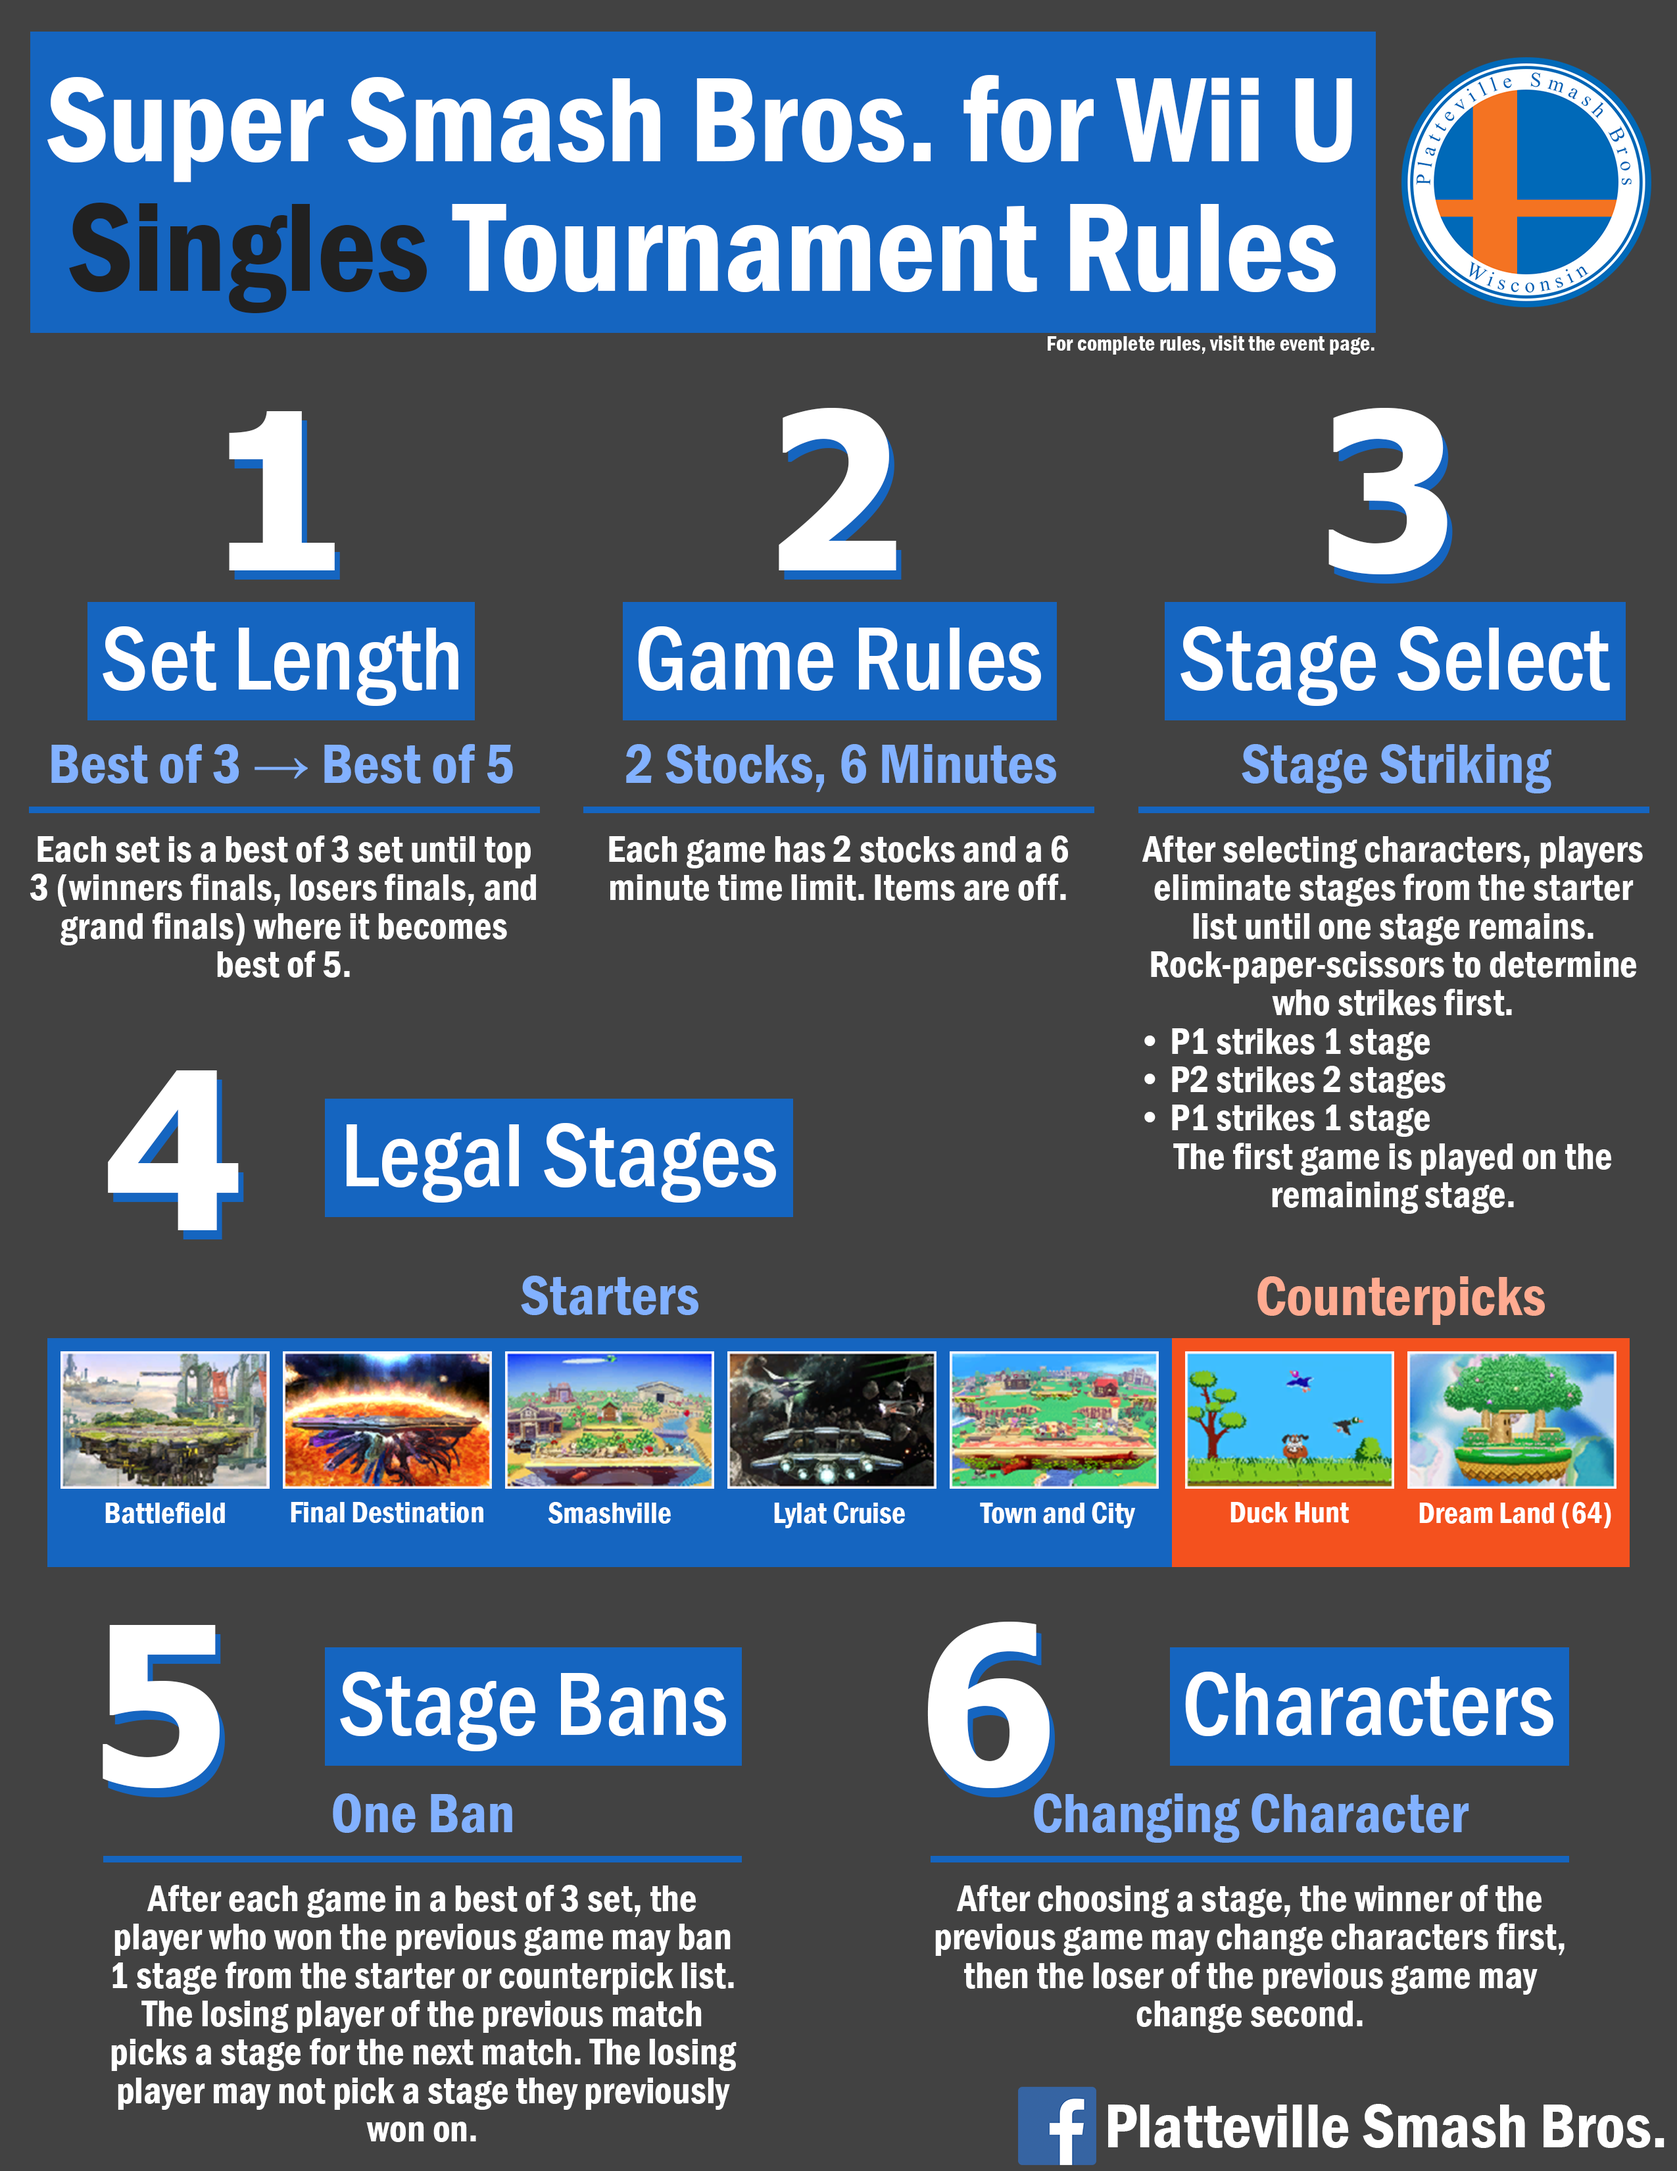
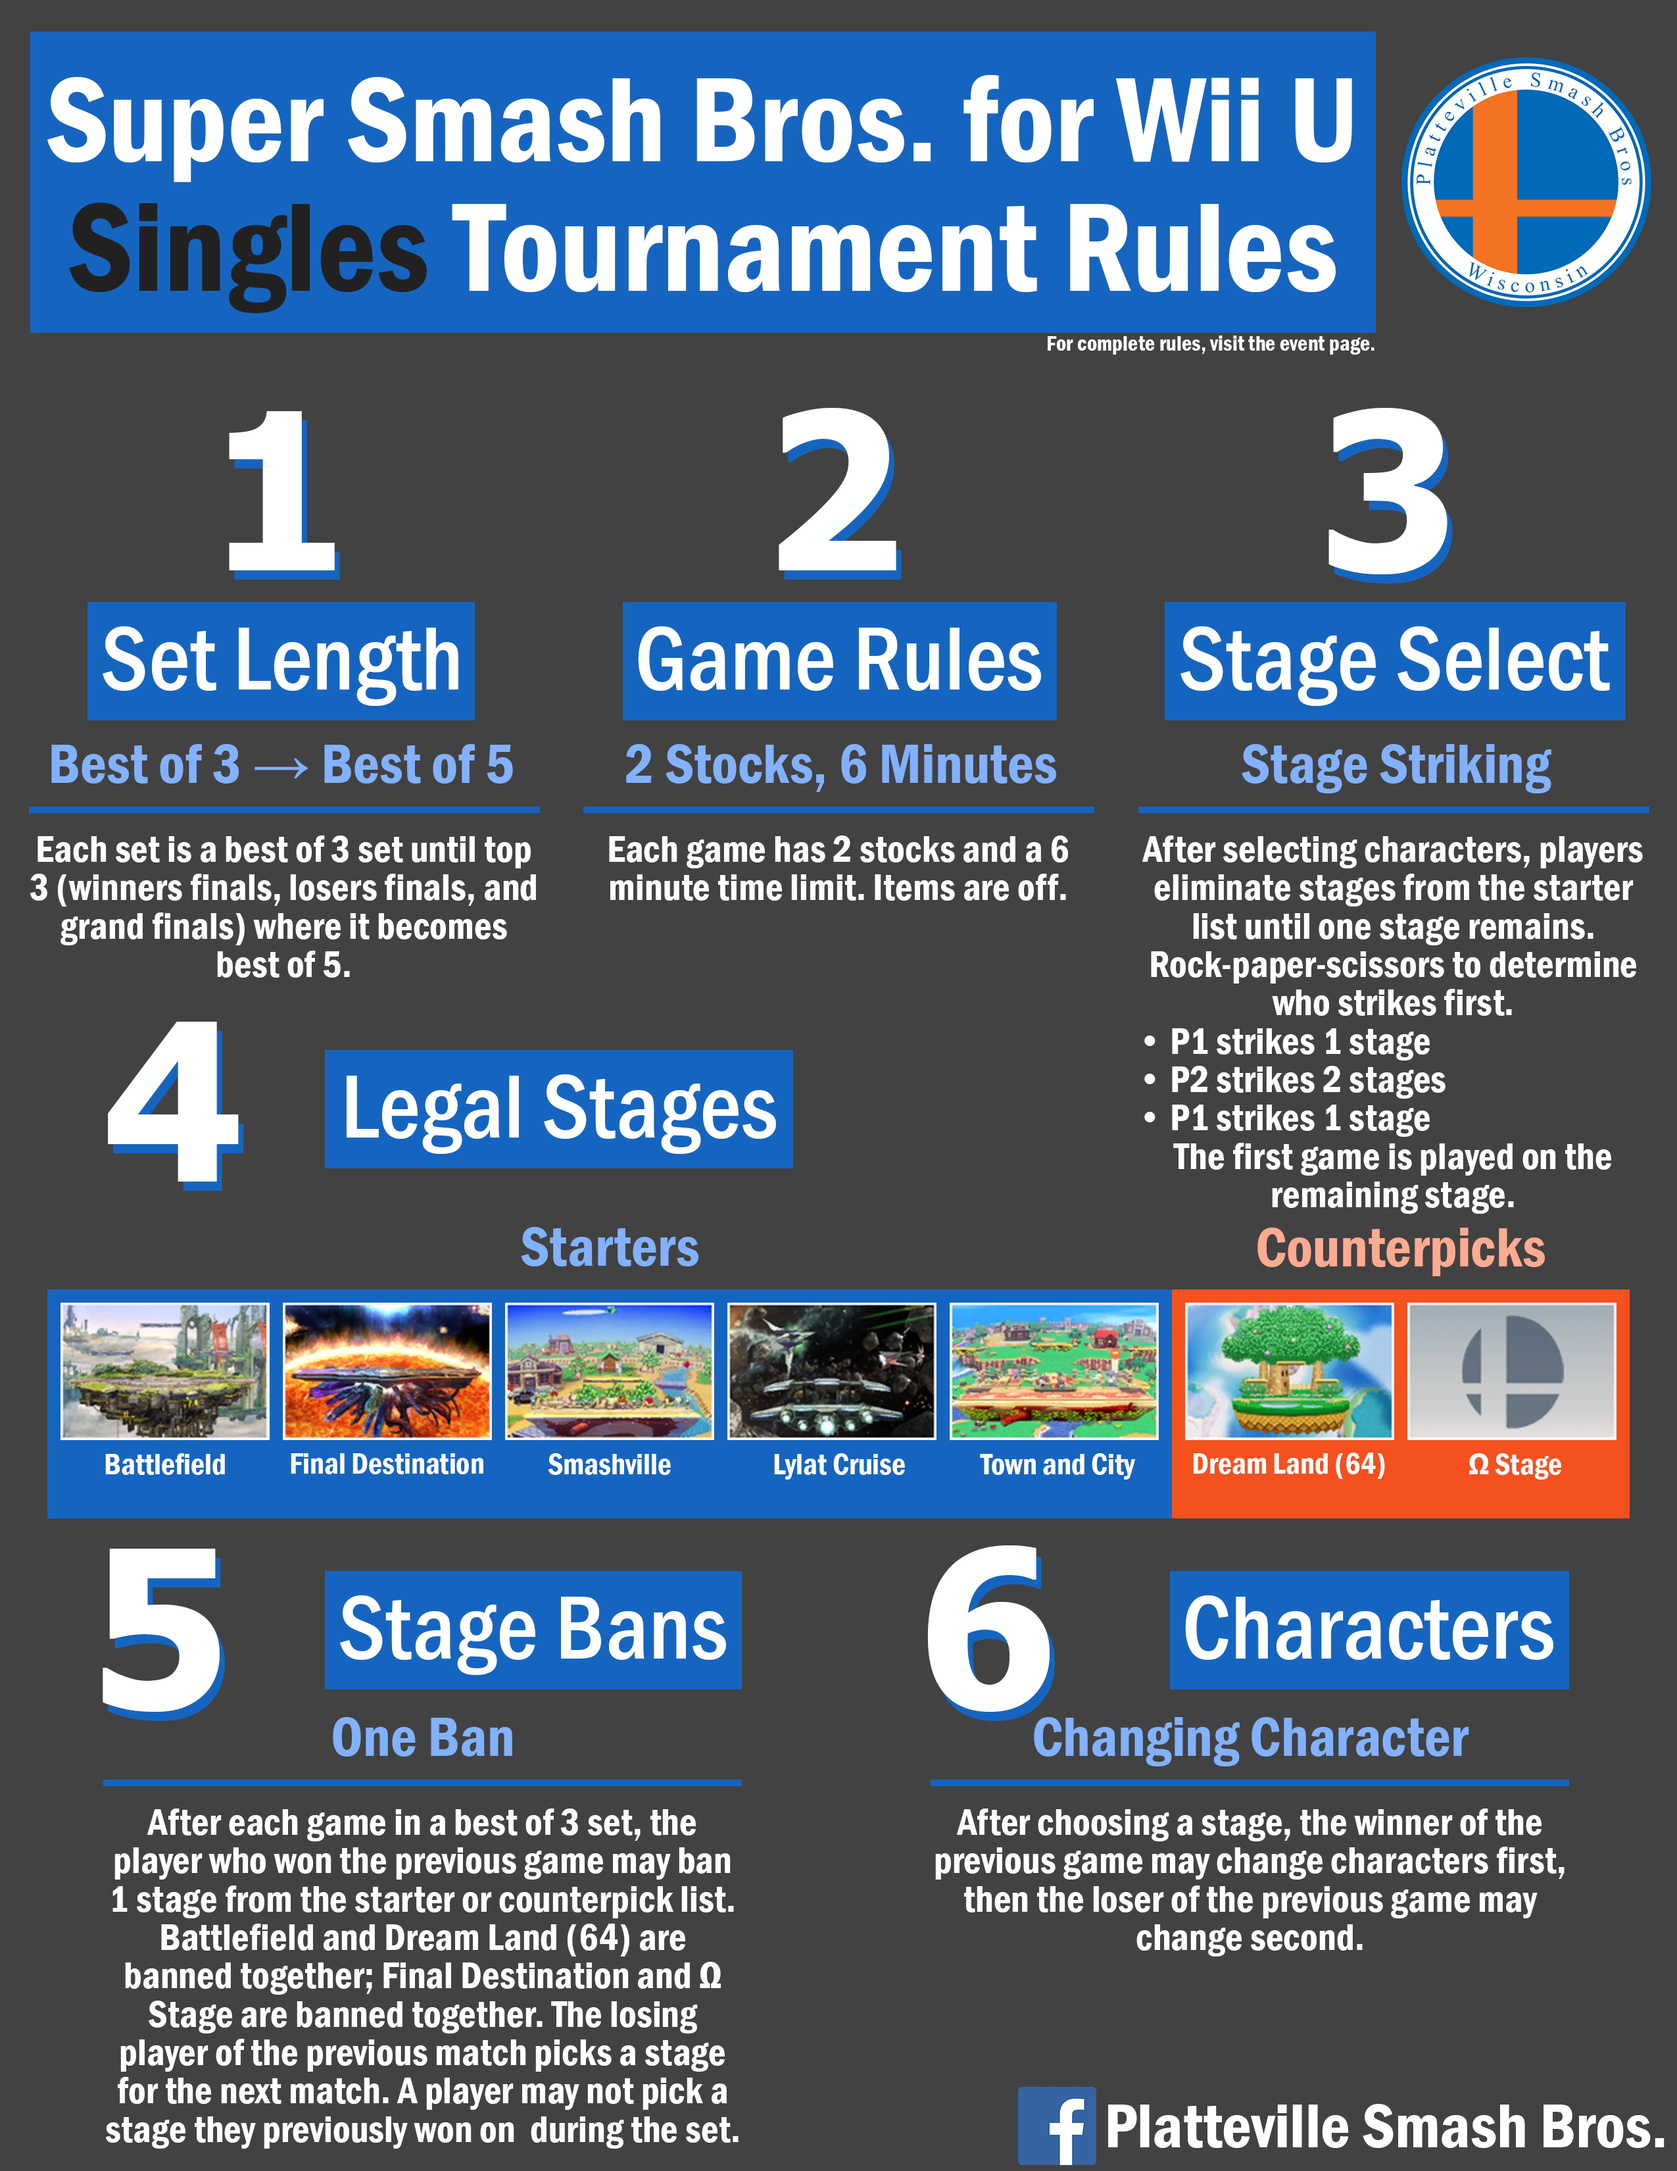
Updated Wii U ruleset and added thumbnail images

Changed region(s): [[0.031, 0.4682, 0.9914, 0.9988]]

diff --git a/rules.html b/rules.html
@@ -34,12 +34,12 @@
 
     <link rel="import" href="citric-flames.html">
 
-    <dom-module id="rule-img" attributes="link">
+    <dom-module id="rule-img" attributes="link thumb">
         <style is="custom-style" include="iron-flex iron-flex-factors"></style>
         <template>
             <div class="flex-1 rule">
                 <a href="{{link}}">
-                    <img class="rule" src="{{link}}">
+                    <img class="rule" src="{{thumb}}">
                 </a>
             </div>
         </template>
@@ -89,14 +89,14 @@
             <paper-card style="width: 100%; padding: 8px;">
                 <h3>Simple rulesheets for each game:</h3>
                 <div class="layout horizontal">
-                    <rule-img link="img/rules/64-singles.png"></rule-img>
-                    <rule-img link="img/rules/melee-singles.png"></rule-img>
-                    <rule-img link="img/rules/melee-doubles.png"></rule-img>
+                    <rule-img thumb="img/rules/64-singles-thumb.jpg" link="img/rules/64-singles.png"></rule-img>
+                    <rule-img thumb="img/rules/melee-singles-thumb.jpg" link="img/rules/melee-singles.png"></rule-img>
+                    <rule-img thumb="img/rules/melee-doubles-thumb.jpg" link="img/rules/melee-doubles.png"></rule-img>
                 </div>
                 <div class="layout horizontal">
-                    <rule-img link="img/rules/pm-singles.png"></rule-img>
-                    <rule-img link="img/rules/wiiu-singles.png"></rule-img>
-                    <rule-img link="img/rules/wiiu-triples.png"></rule-img>
+                    <rule-img thumb="img/rules/pm-singles-thumb.jpg" link="img/rules/pm-singles.png"></rule-img>
+                    <rule-img thumb="img/rules/wiiu-singles-thumb.jpg" link="img/rules/wiiu-singles.png"></rule-img>
+                    <rule-img thumb="img/rules/wiiu-triples-thumb.jpg" link="img/rules/wiiu-triples.png"></rule-img>
                 </div>
             </paper-card>
         </div>
